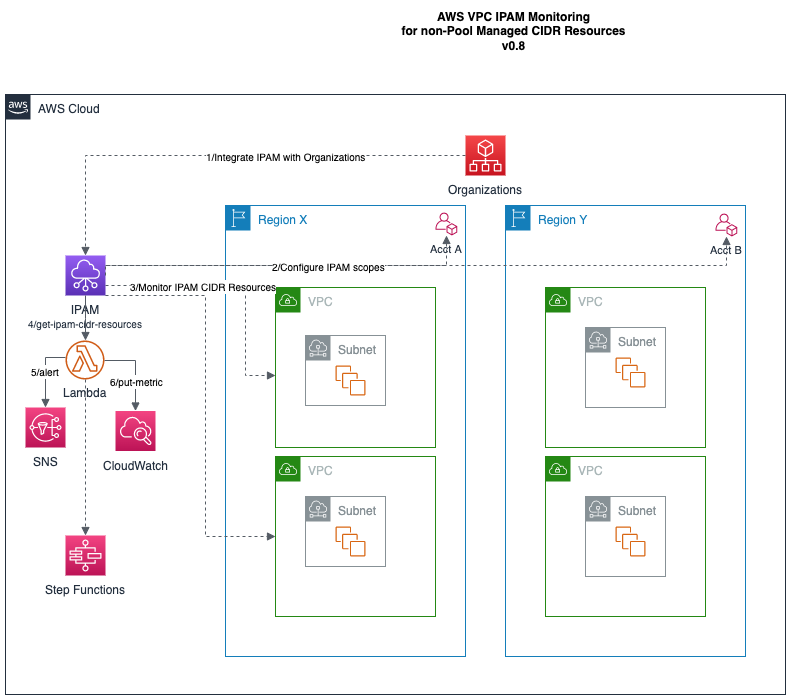
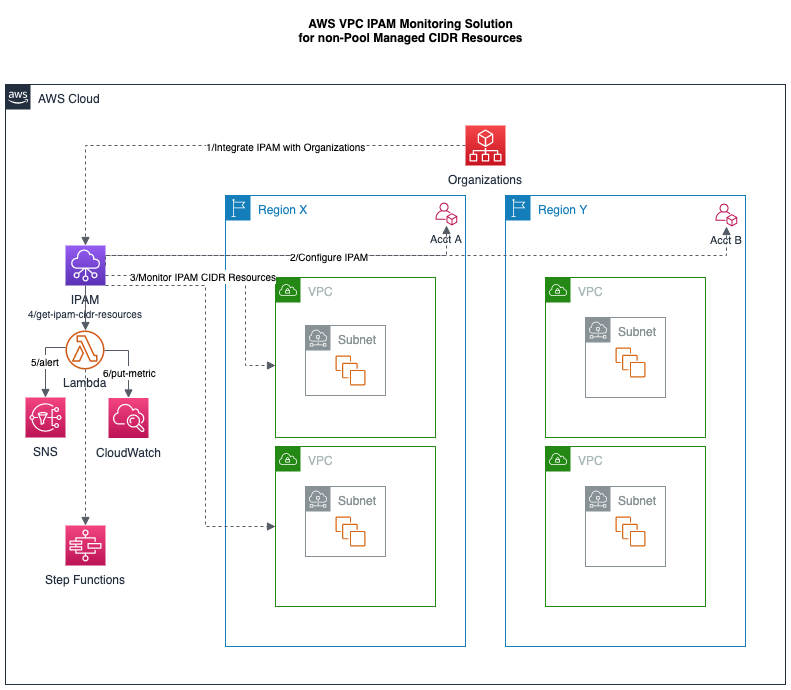
updated diagram and incorporated Python improvements

diff --git a/aws-ipam-monitor-app.py b/aws-ipam-monitor-app.py
@@ -15,17 +15,17 @@ limitations under the License.
 # file: aws-ipam-monitor-app.py
 # author: bishrt@amazon.com
 # date: 5-24-2022
-# CLI reference: https://docs.aws.amazon.com/cli/latest/reference/ec2/get-ipam-resource-cidrs.html
-# Boto3 reference: https://boto3.amazonaws.com/v1/documentation/api/latest/reference/services/ec2.html
+# AWS CLI reference: https://docs.aws.amazon.com/cli/latest/reference/ec2/get-ipam-resource-cidrs.html
+# AWS Boto3 SDK reference: https://boto3.amazonaws.com/v1/documentation/api/latest/reference/services/ec2.html
 # Lambda Best Practices reference: https://docs.aws.amazon.com/lambda/latest/dg/best-practices.html
 # Lambda Developer reference: https://aws.amazon.com/blogs/architecture/best-practices-for-developing-on-aws-lambda/
 # Lambda Python reference: https://docs.aws.amazon.com/lambda/latest/dg/lambda-python.html
 # Lambda Python example https://github.com/awsdocs/aws-lambda-developer-guide/tree/main/sample-apps/blank-python
+# Python reference: https://peps.python.org/pep-0008/
 # requirements Python3.6+ (3.6-3.9)
 # pip install --upgrade boto3
 
 # IMPORTS
-from pickle import TRUE
 import boto3
 import json
 import os
@@ -67,7 +67,7 @@ def get_my_ipam_resource_cidrs(ipamUsageThreshold=DEFAULT_IPAM_USAGE_THRESHOLD, 
 
     # get_ipam_scopes from EC2
     scopeResponse = ec2.describe_ipam_scopes(MaxResults=PAGE_SIZE_MIN)
-    if (scopeResponse != None):
+    if (scopeResponse is not None):
         ipamScopes = scopeResponse['IpamScopes']
         for ipamScope in ipamScopes:
             if (ipamScope['IpamScopeType'] == ipamScopeType):
@@ -79,7 +79,7 @@ def get_my_ipam_resource_cidrs(ipamUsageThreshold=DEFAULT_IPAM_USAGE_THRESHOLD, 
     # get_ipam_resource_cidrs from EC2 for specific scope ... results maybe paginated
     resourceCidrResponse = ec2.get_ipam_resource_cidrs(IpamScopeId=myIpamScopeId, ResourceType=ipamResourceType, MaxResults=PAGE_SIZE_MAX)
 
-    if (resourceCidrResponse != None):
+    if (resourceCidrResponse is not None):
         allResourceCidrs = resourceCidrResponse['IpamResourceCidrs']
 
     # evaluate resource CIDR vs. threshold
@@ -103,6 +103,7 @@ def send_sns_message(snsTopic, snsMessage, snsSubject=DEFAULT_IPAM_SNS_SUBJECT):
     return sns_response
 
 def format_cloudwatch_metric_data_point(ipamResourceCidr, cwMetricName=DEFAULT_IPAM_CLOUDWATCH_METRIC):
+    # each CW metric data point has a Name, Value, Timestamp, and Dimensional Index by the ResourceId for uniqueness
     cw_metric_data_point = {}
     cw_metric_data_point['MetricName'] = cwMetricName
     cw_metric_data_point['Timestamp'] = time.time()
@@ -124,13 +125,14 @@ def send_cloudwatch_metric(ipamResourceCidrs, cwNamespace=DEFAULT_IPAM_CLOUDWATC
         cw_metric_data_point = format_cloudwatch_metric_data_point(ipamResourceCidr, cwMetricName=cwMetric)
         cw_metric_data_points.append(cw_metric_data_point)
 
+    # attach CW NameSpace
     # cloudwatch.put_metric_data
     cw.put_metric_data(Namespace=cwNamespace, MetricData=cw_metric_data_points)
 
 def format_ipam_cidr_resource_message(ipamResourceCidrs):
     ipam_cidr_resource_message = ''
 
-    if (ipamResourceCidrs != None):
+    if (ipamResourceCidrs is not None):
         for ipamResourceCidr in ipamResourceCidrs:
             ipam_cidr_resource_message += ipamResourceCidr['ResourceId'] + ':' + ipamResourceCidr['ResourceOwnerId'] + ":" + str(100 * ipamResourceCidr['IpUsage']) + ','
 
@@ -174,7 +176,7 @@ def lambda_handler(event, context):
 
     # create HTTP response status code and message
     
-    if (myIpamResourceCidrs == None or len(myIpamResourceCidrs) <= 0):
+    if (myIpamResourceCidrs is None or len(myIpamResourceCidrs) <= 0):
         myResponseStatus = 500
         myResponseStatusMessage = "NO_IPAM_RESOURCE_CIDRS"
 
@@ -192,11 +194,11 @@ def lambda_handler(event, context):
         ipamSnsTopic = os.environ['IPAM_SNS_TOPIC']
         ipamSnsSubject = os.environ['IPAM_SNS_SUBJECT']
 
-        if (ipamSnsTopic != None):
+        if (ipamSnsTopic is not None):
             send_sns_message(ipamSnsTopic, myResponseStatusMessage, ipamSnsSubject)
 
     except KeyError:
-        logger.info('Define Lambda Environment Variable: IPAM_SNS_TOPIC, IPAM_SNS_SUBJECT')
+        logger.warn('Define Lambda Environment Variable: IPAM_SNS_TOPIC, IPAM_SNS_SUBJECT')
         # report, warn, and then ignore
 
     # CLOUDWATCH
@@ -209,22 +211,22 @@ def lambda_handler(event, context):
             send_cloudwatch_metric(myIpamResourceCidrs, ipamCloudWatchNamespace, ipamCloudWatchMetric)
 
     except KeyError:
-        logger.info('Define Lambda Environment Variable: IPAM_CLOUDWATCH_ENABLED, IPAM_CLOUDWATCH_NAMESPACE, IPAM_CLOUDWATCH_METRIC')
+        logger.warn('Define Lambda Environment Variable: IPAM_CLOUDWATCH_ENABLED, IPAM_CLOUDWATCH_NAMESPACE, IPAM_CLOUDWATCH_METRIC')
         # report, warn, and then ignore
 
     return {
         "statusCode": myResponseStatus,
         "body": json.dumps({
-            "message": myResponseStatusMessage,
-            "ipamResourceCidrs" : myIpamResourceCidrs
+            "Message": myResponseStatusMessage,
+            "IpamResourceCidrs" : myIpamResourceCidrs
         })
     }
 
 
 ##############################    
-# TEST
+# CLI TEST
 # main()
-# aws-ipam-monitor-app.py --scope private --type vpc --snssubject "My IPAM Email Alert" --snstopic 'arn:aws:sns:us-east-2:645411899653:my-aws-training-email-bishrt' --threshold 80.0
+# ./aws-ipam-monitor-app.py --scope private --type vpc --snssubject "My IPAM Email Alert" --snstopic 'arn:aws:sns:us-east-2:645411899653:my-aws-training-email-bishrt' --threshold 80.0
 ##############################  
 
 if __name__ == '__main__':
@@ -263,7 +265,7 @@ if __name__ == '__main__':
     logger.info(myIpamResourceCidrMessage)
 
     # SNS
-    if (myIpamSnsTopic != None):
+    if (myIpamSnsTopic is not None):
         send_sns_message(myIpamSnsTopic, myIpamResourceCidrMessage, myIpamSnsSubject)
 
     # CLOUDWATCH
